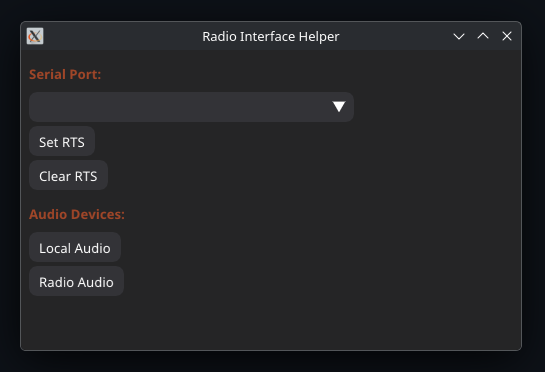
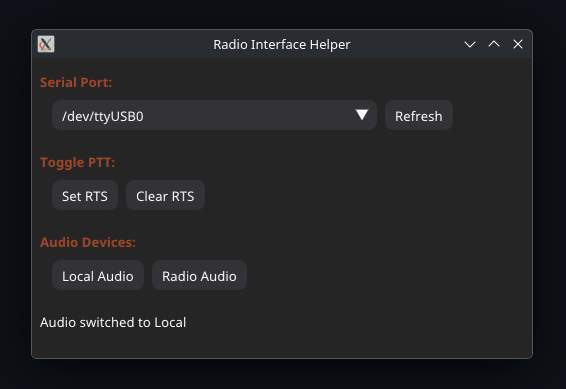
Added refresh button and hotkeys And learned how to put things next to each other!

diff --git a/main.py b/main.py
@@ -37,6 +37,11 @@ def com_port_changed(sender, data):
     except Exception as e:
         set_status_text(str(e))
 
+def button_refresh_ports(sender, data):
+    devices = SerialPortAccess.list_devices()
+    dpg.configure_item("PortListCombo", items=devices)
+    set_status_text("Found {} devices".format(len(devices)))
+
 def button_set_rts(sender, data):
     global SerialPort
     if SerialPort.is_valid():
@@ -57,7 +62,7 @@ def button_switch_local_audio(sender, data):
     global DefaultAudioDevice
     try:
         DefaultAudioDevice.switch()
-        set_status_text("Audio switched to default")
+        set_status_text("Audio switched to Local")
     except Exception as e:
         set_status_text("Unable to set audio: " + str(e))
 
@@ -65,7 +70,7 @@ def button_switch_radio_audio(sender, data):
     global RadioAudioDevice
     try:
         RadioAudioDevice.switch()
-        set_status_text("Audio switched to radio")
+        set_status_text("Audio switched to Radio")
     except Exception as e:
         set_status_text("Unable to set audio: " + str(e))
 
@@ -95,24 +100,48 @@ with dpg.theme() as text_heading_theme:
     with dpg.theme_component(dpg.mvAll):
         dpg.add_theme_color(dpg.mvThemeCol_Text, (160, 70, 40))
 
+# Finally, setup hotkeys
+with dpg.handler_registry():
+    dpg.add_key_press_handler(dpg.mvKey_S, callback=button_set_rts)
+    dpg.add_key_press_handler(dpg.mvKey_C, callback=button_clear_rts)
+    dpg.add_key_press_handler(dpg.mvKey_L, callback=button_switch_local_audio)
+    dpg.add_key_press_handler(dpg.mvKey_R, callback=button_switch_radio_audio)
+    dpg.add_key_press_handler(dpg.mvKey_Q, callback=lambda: dpg.stop_dearpygui())
+
 
 with dpg.window(tag="Primary Window"):
     dpg.add_text("Serial Port:")
     dpg.bind_item_font(dpg.last_item(), heading_font)
     dpg.bind_item_theme(dpg.last_item(), text_heading_theme)
 
-    dpg.add_combo(SerialPortAccess.list_devices(), callback=com_port_changed)
-    dpg.add_button(label="Set RTS", callback=button_set_rts)
-    dpg.add_button(label="Clear RTS", callback=button_clear_rts)
-    dpg.add_spacer()
+    with dpg.group(horizontal=True):
+        dpg.add_spacer(width=4)
+        dpg.add_combo(SerialPortAccess.list_devices(), callback=com_port_changed, tag="PortListCombo")
+        dpg.add_button(label="Refresh", callback=button_refresh_ports)
+
+    dpg.add_spacer(height=8)
+
+    dpg.add_text("Toggle PTT:")
+    dpg.bind_item_font(dpg.last_item(), heading_font)
+    dpg.bind_item_theme(dpg.last_item(), text_heading_theme)
+
+    with dpg.group(horizontal=True):
+        dpg.add_spacer(width=4)
+        dpg.add_button(label="Set RTS", callback=button_set_rts)
+        dpg.add_button(label="Clear RTS", callback=button_clear_rts)
+
+    dpg.add_spacer(height=8)
 
     dpg.add_text("Audio Devices:")
     dpg.bind_item_font(dpg.last_item(), heading_font)
     dpg.bind_item_theme(dpg.last_item(), text_heading_theme)
 
-    dpg.add_button(label="Local Audio", callback=button_switch_local_audio)
-    dpg.add_button(label="Radio Audio", callback=button_switch_radio_audio)
-    dpg.add_spacer()
+    with dpg.group(horizontal=True):
+        dpg.add_spacer(width=4)
+        dpg.add_button(label="Local Audio", callback=button_switch_local_audio)
+        dpg.add_button(label="Radio Audio", callback=button_switch_radio_audio)
+
+    dpg.add_spacer(height=8)
 
     dpg.add_text("", tag="StatusBar")
 
